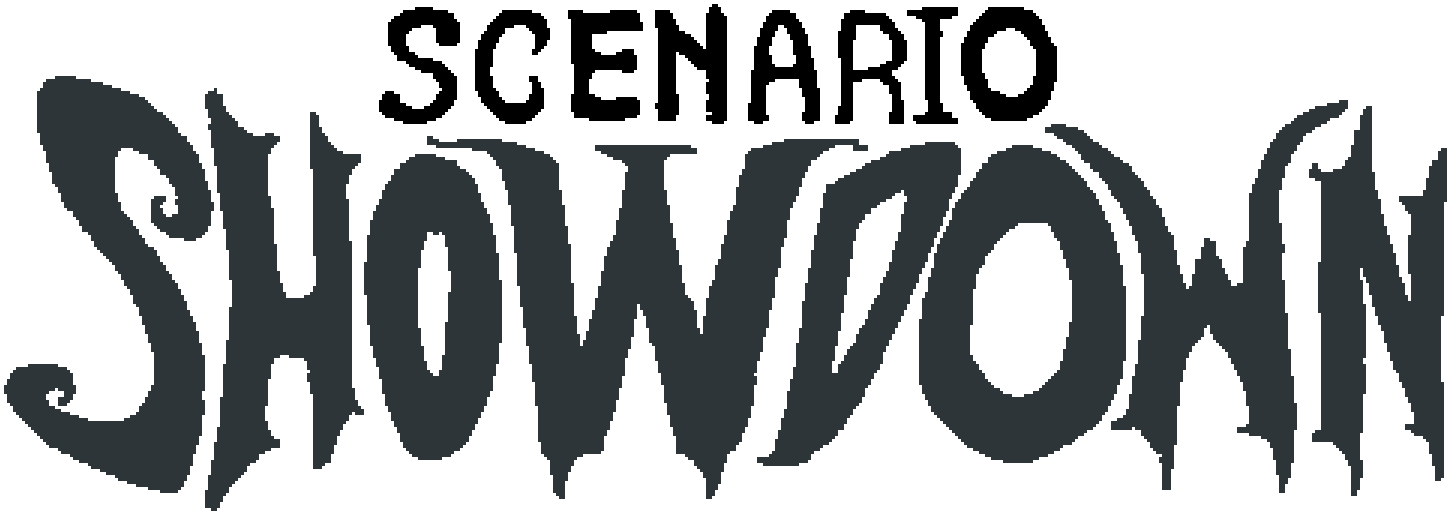
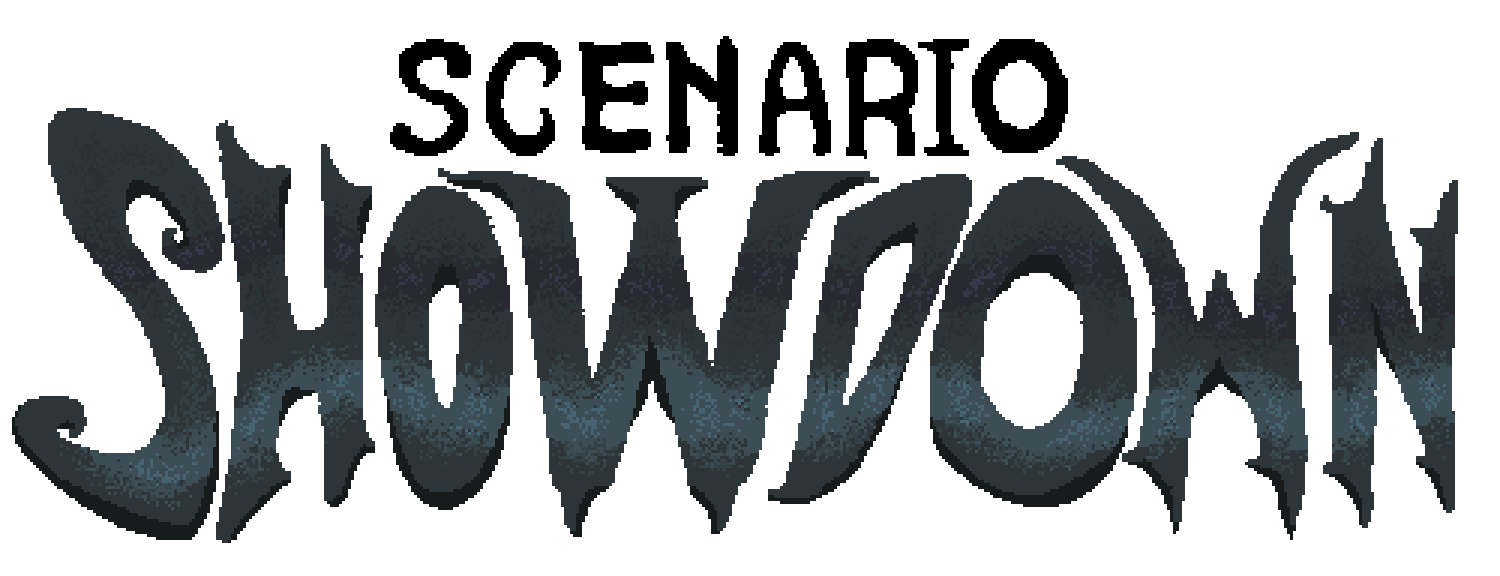
New title art, parchment card fronts and menu touch-ups (groups 2 and 3)
- Title: the new Scenario Showdown art, with a darker drop shadow.
- Menu buttons: labels in the title's dark blue, a little bluer.
- Menu card atlas: updated bell card.
- Card fronts: one parchment front (Art/Cards/CardFront) for every area;
  the term and Definition label are set in Atkinson Hyperlegible Next
  SemiBold.
- New Game fall: each card keeps its column's scroll speed as it drops.

diff --git a/Assets/Scripts/MenuNewGameTransition.cs b/Assets/Scripts/MenuNewGameTransition.cs
@@ -12,7 +12,8 @@ using UnityEngine.UI;
 //     the screen too, so the whole wall falls straight down through it. Each
 //     lets go a touch late or early, falls a little faster or slower, and
 //     drifts and turns slightly, so they slip over each other on the way
-//     out. Then only the blue is left.
+//     out. Each keeps the speed its column was scrolling at, up or down,
+//     and gravity takes it from there. Then only the blue is left.
 //  3. The synopsis loads under that still blue, so the load's stall shows
 //     nothing, with the menu kept over it (Covering). The menu fades away as
 //     the synopsis's background comes up from calm to its excited look, and
@@ -57,6 +58,7 @@ public class MenuNewGameTransition : MaskableGraphic
     {
         public Vector2 start;  // its centre on the grid, in screen heights from the screen's centre
         public int atlasIndex;
+        public float velocity; // up the screen, its column's scroll, in screen heights a second
         public float release, gravity, drift, spin;
     }
 
@@ -237,6 +239,8 @@ public class MenuNewGameTransition : MaskableGraphic
                     start = new Vector2((column + 0.5f) * cell.x * cardHeight - 0.5f * aspect,
                                         ((row + 0.5f) * cell.y - offset) * cardHeight - 0.5f),
                     atlasIndex = CardAt(column, row),
+                    // The shader moves a column's cards down as its offset grows.
+                    velocity = -direction * speed * cardHeight,
                     release = Random.Range(0f, ReleaseSpread),
                     gravity = Gravity * Random.Range(GravityMin, GravityMax),
                     drift = Random.Range(-Drift, Drift),
@@ -268,8 +272,9 @@ public class MenuNewGameTransition : MaskableGraphic
     // Where a card is, and its turn in degrees, at this point in the fall.
     private static void Place(Card c, float time, out Vector2 position, out float rotation)
     {
+        // Still scrolling until it lets go, and carrying that speed on after.
         float age = Mathf.Max(0f, time - c.release);
-        position = c.start + new Vector2(c.drift * age, -0.5f * c.gravity * age * age);
+        position = c.start + new Vector2(c.drift * age, c.velocity * time - 0.5f * c.gravity * age * age);
         rotation = c.spin * age;
     }
 

diff --git a/Assets/Scripts/CardBehavior.cs b/Assets/Scripts/CardBehavior.cs
@@ -110,6 +110,7 @@ public class CardBehavior : MonoBehaviour, IPointerClickHandler, IPointerDownHan
             SetUpDefinitionButton();
             TurnFaceDown();
         }
+        if (TestGroups.IsEnabled(Feature.NewCardArt)) UseCardFont();
         else
         {
             ShowFront();
@@ -145,6 +146,29 @@ public class CardBehavior : MonoBehaviour, IPointerClickHandler, IPointerDownHan
 
     private const float TermSidePadding = 10f;
     private const float TermMinFontSize = 8f;
+
+    // Group 2: the term and the Definition button's label in Atkinson
+    // Hyperlegible Next SemiBold, like the themed text boxes and pixel
+    // buttons. The label shrinks to fit if it has to.
+    void UseCardFont()
+    {
+        TMP_FontAsset font = TextBoxTheme.SemiBold;
+        if (font == null) return;
+        var label = helpButton != null ? helpButton.GetComponentInChildren<TMP_Text>(true) : null;
+        foreach (TMP_Text text in new[] { frontText, label })
+        {
+            if (text == null) continue;
+            text.font = font;
+            text.fontSharedMaterial = font.material;
+            text.fontStyle = FontStyles.Normal;
+        }
+        if (label != null)
+        {
+            label.fontSizeMax = label.fontSize;
+            label.fontSizeMin = TermMinFontSize;
+            label.enableAutoSizing = true;
+        }
+    }
 
     void Update()
     {

diff --git a/Assets/Scripts/MenuButtonPlates.cs b/Assets/Scripts/MenuButtonPlates.cs
@@ -36,8 +36,9 @@ public class MenuButtonPlates : MonoBehaviour, IPointerEnterHandler, IPointerExi
     // dark stone lip below): its top and bottom as anchors, and an inset
     // from each end, so the label centres on the face.
     private const float FaceBottom = 0.25f, FaceTop = 0.94f, FaceInset = 10f;
-    private static readonly Color Ink = new Color32(0x3A, 0x30, 0x30, 0xFF);
-    private static readonly Color DimInk = new Color32(0x3A, 0x30, 0x30, 0x80); // Load Game with no save
+    // The title art's (Resources/MenuTitle) dark slate blue (#2D3539), a little bluer.
+    private static readonly Color Ink = new Color32(0x24, 0x3A, 0x4C, 0xFF);
+    private static readonly Color DimInk = new Color32(0x24, 0x3A, 0x4C, 0x80); // Load Game with no save
 
     // As the PixelButtons: up a unit on hover, down two (onto the shadow)
     // when pressed, a step darker when pressed and grey when disabled.
